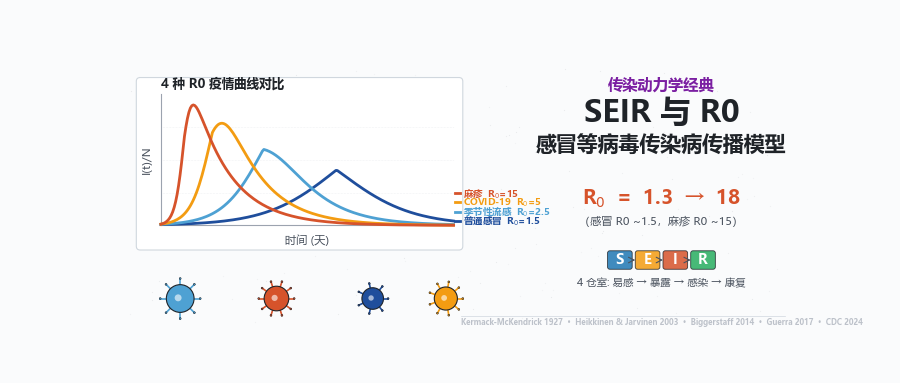
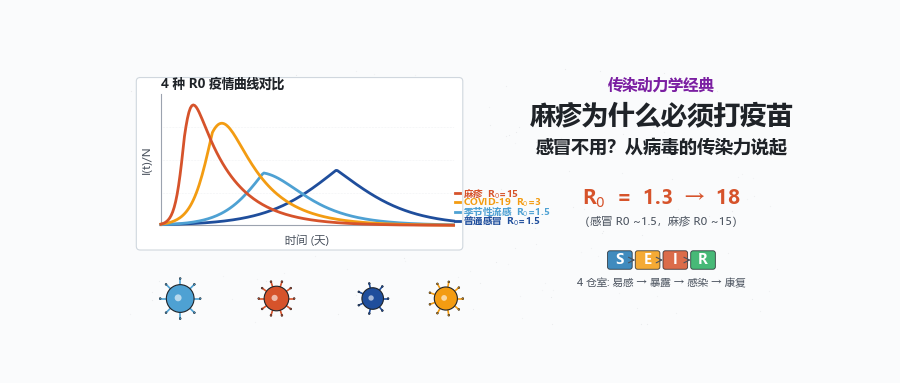
polish: env/16 封面更新（R0 标签对齐正文 1.5/1.5/3.0/15 + 标题同步新文章 + 删底部文献行）

diff --git a/scripts/gen_cover_env_16.py b/scripts/gen_cover_env_16.py
@@ -27,8 +27,8 @@ OUT = os.path.join(os.path.dirname(__file__), "..", "articles", "env",
 # (name, R0, latent_days, infect_days, peak_day, peak_height, color)
 VIRUSES = [
     ("普通感冒",   1.5,  2.0, 5.0, 120, 0.42, "#1f4e9c"),
-    ("季节性流感", 2.5,  2.0, 4.0,  70, 0.58, "#4ea1d3"),
-    ("COVID-19",   5.0,  5.0, 7.0,  35, 0.78, "#f39c12"),
+    ("季节性流感", 1.5,  2.0, 4.0,  70, 0.40, "#4ea1d3"),
+    ("COVID-19",   3.0,  5.0, 7.0,  35, 0.78, "#f39c12"),
     ("麻疹",      15.0, 12.0, 6.0,  16, 0.92, "#d6532b"),
 ]
 
@@ -100,8 +100,8 @@ def draw_curves_panel(ax, x0, y0, w, h):
     # 曲线末端图例: 用曲线末端位置贴标签, 错开避免重叠
     label_offsets = [
         ("普通感冒",   1.5, "#1f4e9c", 0.06),
-        ("季节性流感", 2.5, "#4ea1d3", 0.18),
-        ("COVID-19",   5.0, "#f39c12", 0.30),
+        ("季节性流感", 1.5, "#4ea1d3", 0.18),
+        ("COVID-19",   3.0, "#f39c12", 0.30),
         ("麻疹",      15.0, "#d6532b", 0.42),
     ]
     for name, R0, color, dy in label_offsets:
@@ -213,11 +213,11 @@ def article_cover():
             fontweight="bold", zorder=5, style="italic")
 
     # 主标题
-    ax.text(7.10, 2.95, "SEIR 与 R0",
-            fontsize=22, color="#1f2328", ha="center", va="center",
+    ax.text(7.10, 2.92, "麻疹为什么必须打疫苗",
+            fontsize=19, color="#1f2328", ha="center", va="center",
             fontweight="bold", zorder=5)
-    ax.text(7.10, 2.55, "感冒等病毒传染病传播模型",
-            fontsize=15, color="#1f2328", ha="center", va="center",
+    ax.text(7.10, 2.50, "感冒不用？从病毒的传染力说起",
+            fontsize=13, color="#1f2328", ha="center", va="center",
             fontweight="bold", zorder=5)
 
     # 关键数字 R0 范围
@@ -233,14 +233,6 @@ def article_cover():
     ax.text(7.10, 0.75, "4 仓室: 易感 → 暴露 → 感染 → 康复",
             fontsize=7.5, color="#4a525e", ha="center", va="center",
             zorder=5, style="italic")
-
-    # ── Bottom tag ───────────────────────────────────────────────────
-    ax.plot([4.5, 8.7], [0.32, 0.32], color="#d0d7de", lw=0.5, zorder=2)
-    ax.text(7.10, 0.20,
-            "Kermack-McKendrick 1927  ·  Heikkinen & Jarvinen 2003  ·  "
-            "Biggerstaff 2014  ·  Guerra 2017  ·  CDC 2024",
-            fontsize=5.5, color="#9ca3af",
-            ha="center", alpha=0.65, fontweight="bold", zorder=5)
 
     plt.savefig(OUT, dpi=100, facecolor="#fafbfc")
     plt.close(fig)
